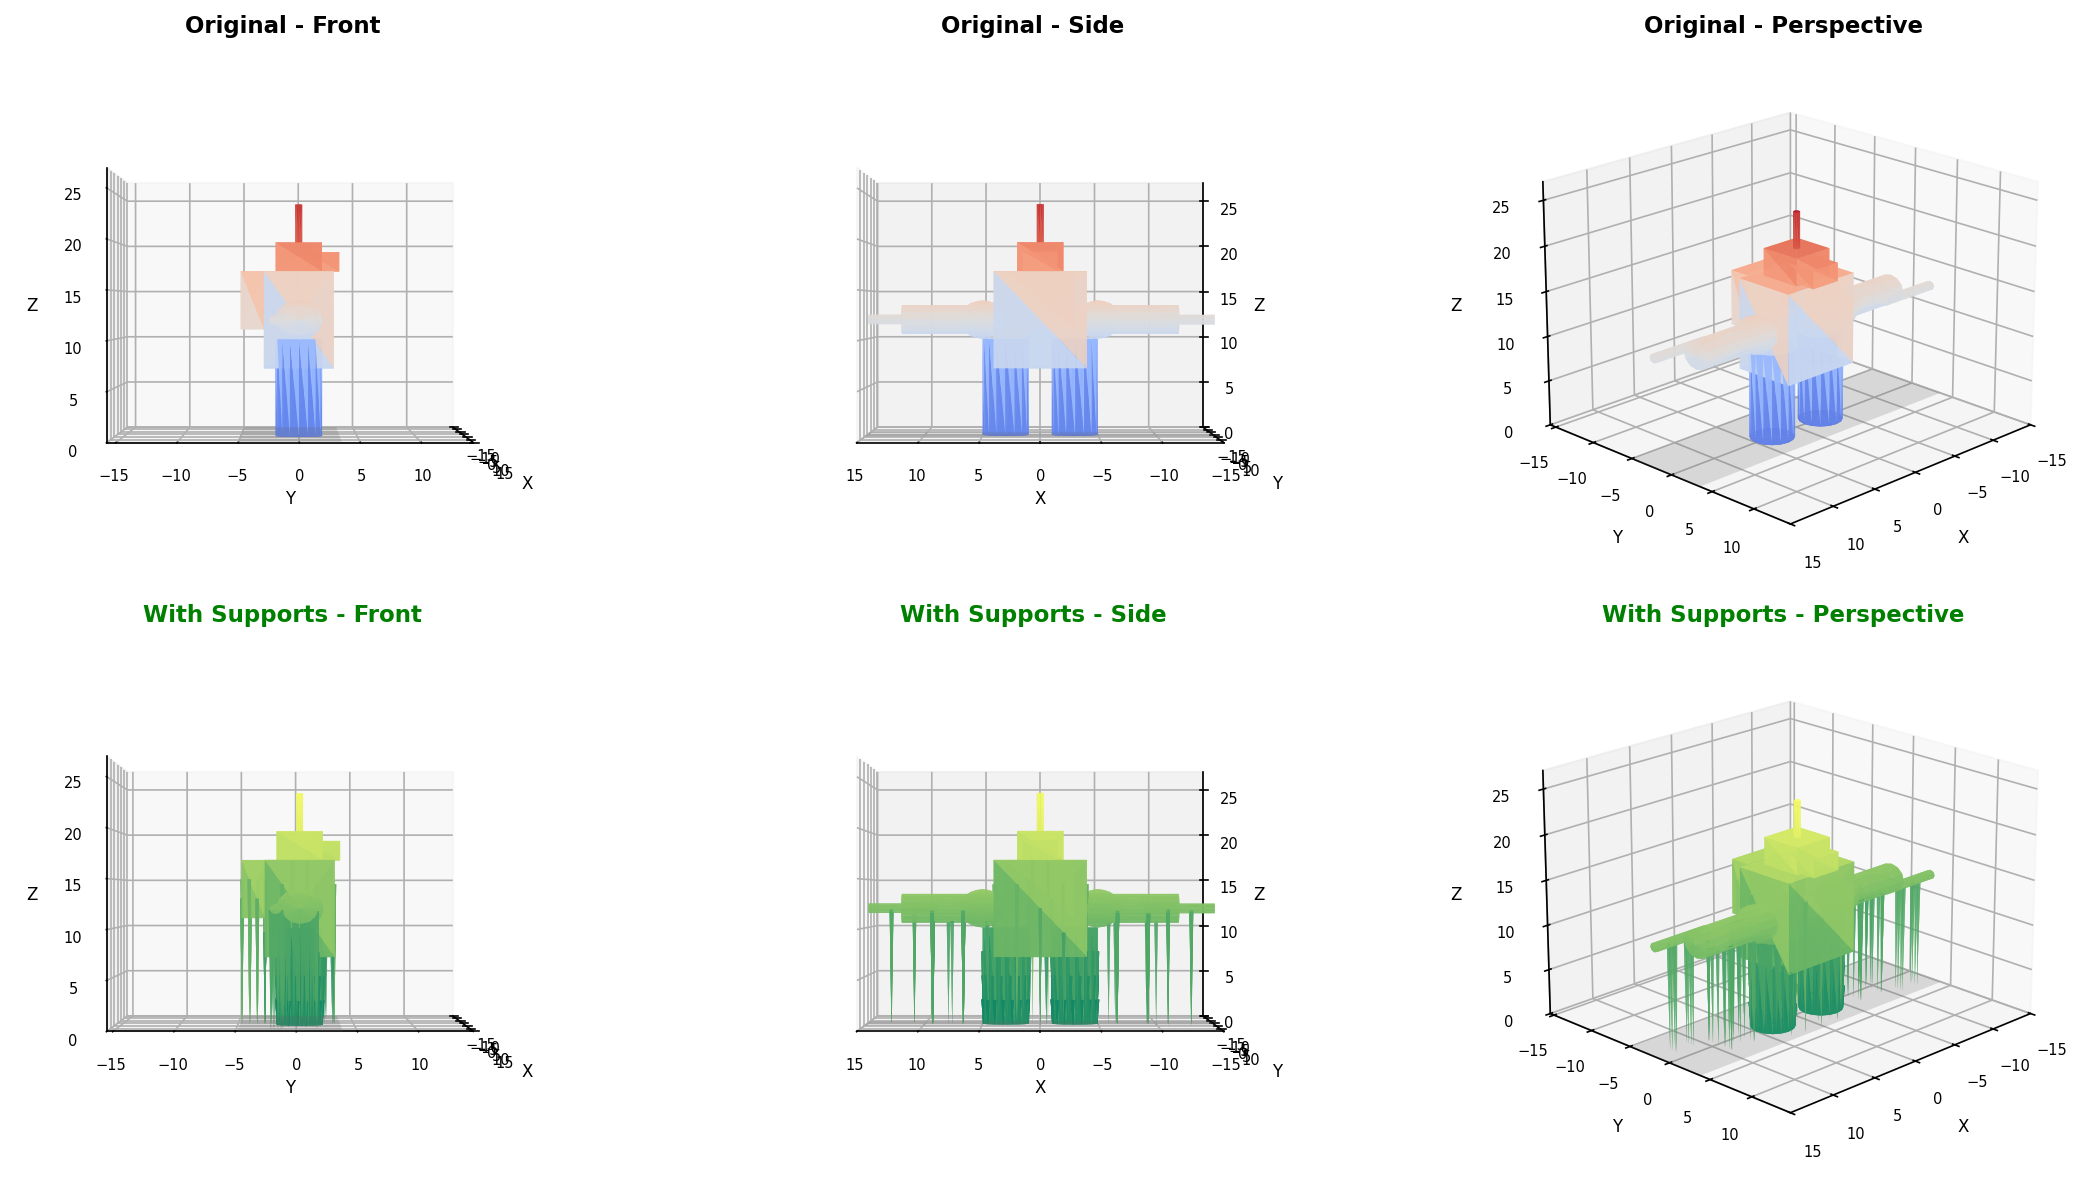
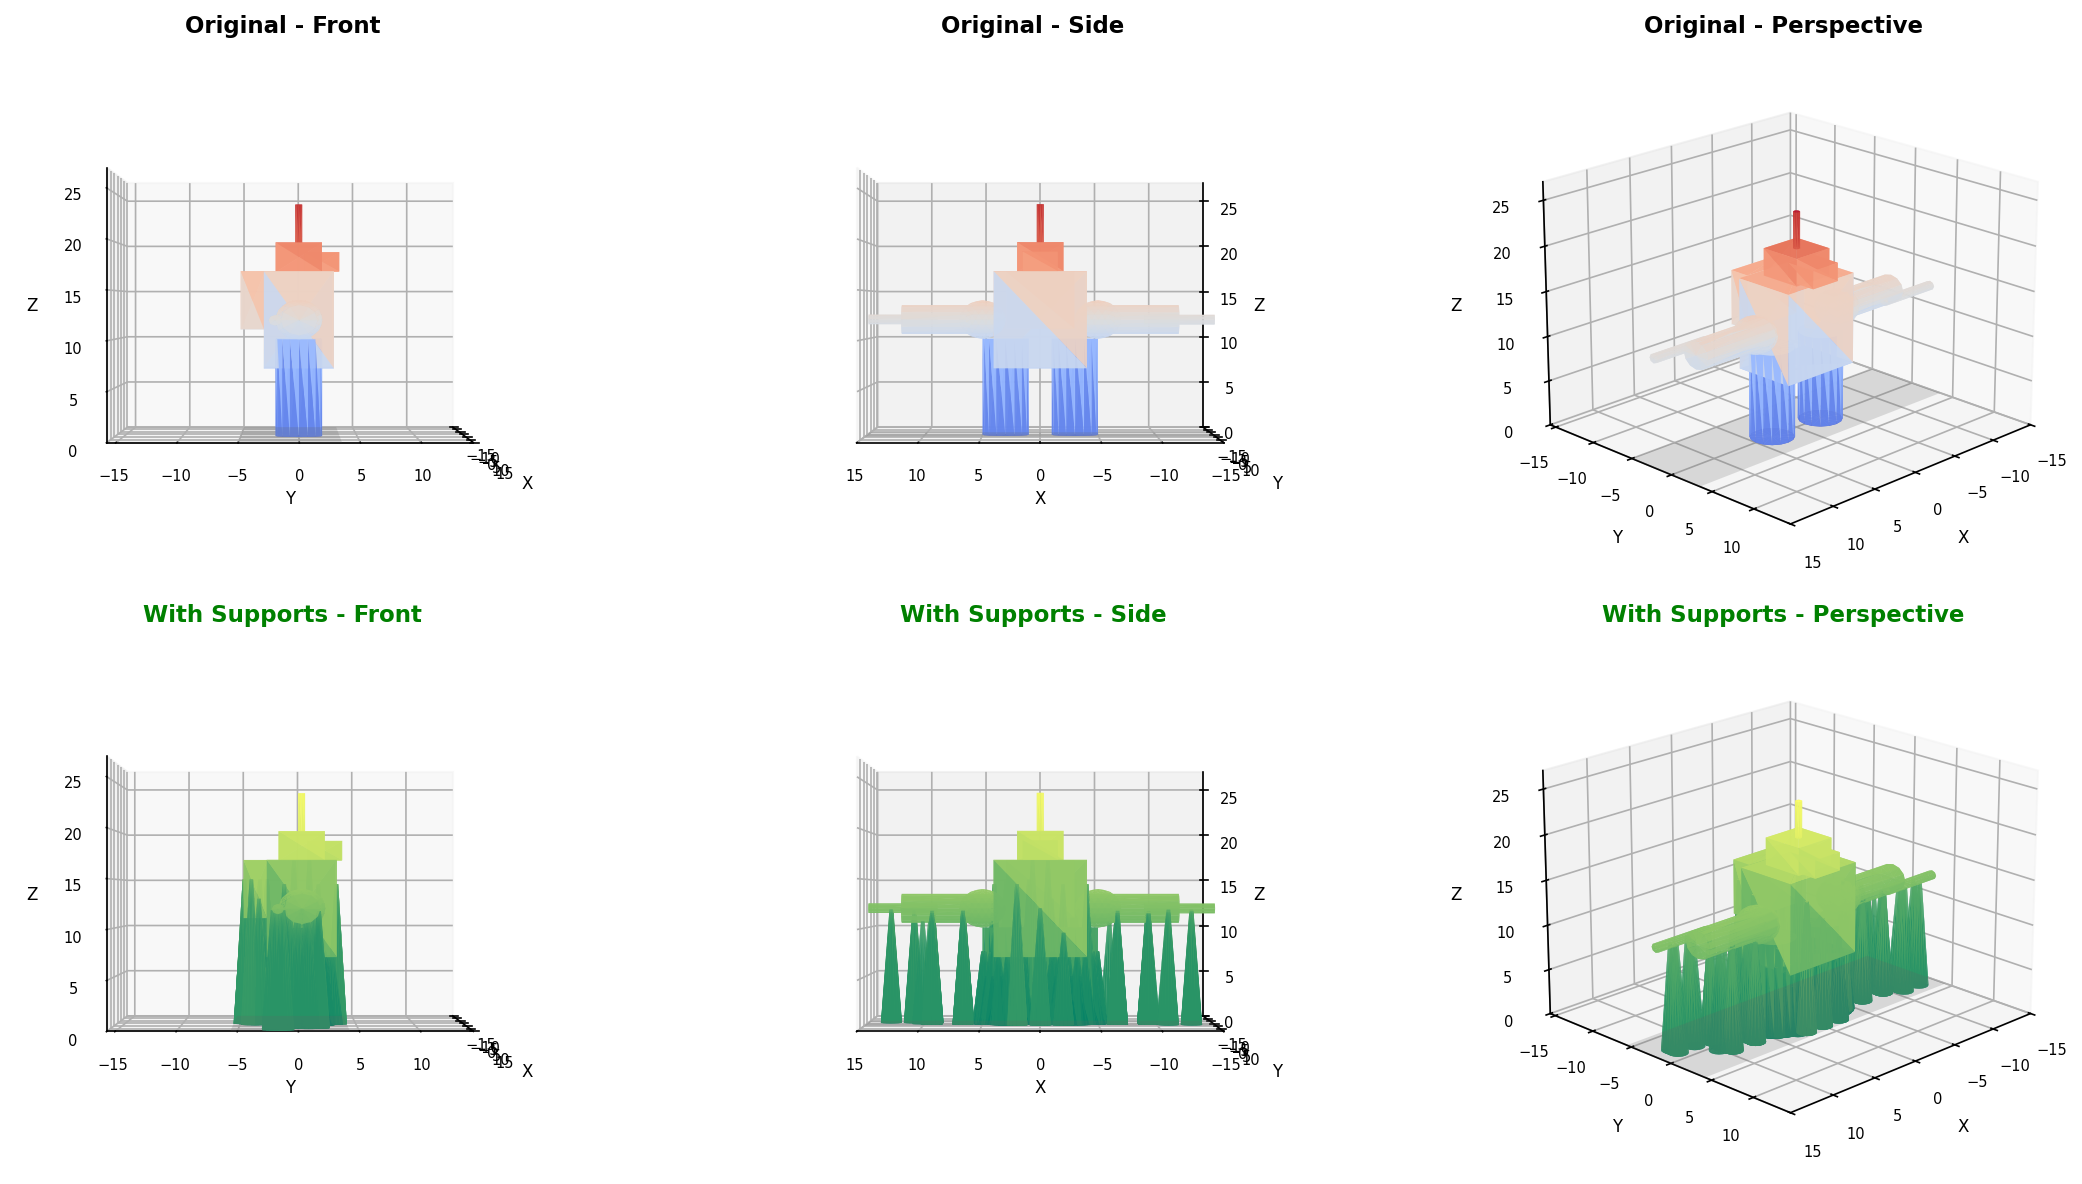
Fix critical bug: supports were inverted (small base, large tip)
CRITICAL FIX: Support cones were generated backwards with small points
at the build plate and large contact areas at the model. This would cause
print failures due to unstable supports.

Root cause: trimesh.creation.cone() creates a cone with a point (radius 0)
at origin. When we tried to scale this point, it remained at 0 because you
can't scale a point that's already at radius 0.

Solution: Use trimesh.creation.cylinder() instead and manually taper the
vertices. This ensures we start with a full-radius base that can be properly
scaled down to create the small tip.

Results:
- Build plate base: 0.85mm radius (was 0mm) - stable foundation
- Model tip: 0.14mm radius (was larger) - minimal scarring
- Support volume: 2,284mm³ (was 53mm³) - correct amount for stability

Visual verification shows proper cone orientation with thick bases at
build plate tapering to small tips at model contact points.

This fix is essential for functional print supports.

Changed region(s): [[0.7805, 0.75, 0.9366, 0.9062], [0.4059, 0.7812, 0.5932, 0.875], [0.0624, 0.6562, 0.1873, 0.875]]

diff --git a/test_support_geometry.py b/test_support_geometry.py
@@ -1,0 +1,98 @@
+#!/usr/bin/env python3
+"""
+Test and verify support cone geometry
+"""
+
+import numpy as np
+import trimesh
+
+# Recreate a single support to verify geometry
+def create_test_support():
+    """Create a single support cone and verify its geometry"""
+
+    # Parameters
+    tip_radius = 0.15  # 0.3mm / 2
+    base_radius = 0.9  # 1.8mm / 2
+    height = 10.0  # 10mm tall support
+
+    print("Creating test support:")
+    print(f"  Tip radius (top/model): {tip_radius}mm")
+    print(f"  Base radius (bottom/build plate): {base_radius}mm")
+    print(f"  Height: {height}mm")
+
+    # Create cylinder and taper it to create proper cone
+    cylinder = trimesh.creation.cylinder(
+        radius=base_radius,
+        height=height,
+        sections=16
+    )
+
+    print(f"\nAfter creation (cylinder):")
+    print(f"  Z range: {cylinder.vertices[:, 2].min():.3f} to {cylinder.vertices[:, 2].max():.3f}")
+
+    # Modify vertices to taper from base to tip
+    vertices = cylinder.vertices.copy()
+    z_vals = vertices[:, 2]
+    z_min, z_max = z_vals.min(), z_vals.max()
+
+    print(f"\nBefore tapering:")
+    print(f"  z_min: {z_min:.3f}, z_max: {z_max:.3f}")
+
+    for i, vertex in enumerate(vertices):
+        z_pos = vertex[2]
+        # t=0 at bottom, t=1 at top
+        t = (z_pos - z_min) / (z_max - z_min) if z_max > z_min else 0
+
+        # Interpolate from base (large) to tip (small)
+        target_radius = base_radius * (1 - t) + tip_radius * t
+
+        current_radius = np.sqrt(vertex[0]**2 + vertex[1]**2)
+        if current_radius > 0.001:
+            scale = target_radius / current_radius
+            vertices[i, 0] *= scale
+            vertices[i, 1] *= scale
+
+    cylinder.vertices = vertices
+
+    # Check radii at top and bottom
+    bottom_verts = vertices[np.abs(vertices[:, 2] - z_min) < 0.01]
+    top_verts = vertices[np.abs(vertices[:, 2] - z_max) < 0.01]
+
+    bottom_radii = np.sqrt(bottom_verts[:, 0]**2 + bottom_verts[:, 1]**2)
+    top_radii = np.sqrt(top_verts[:, 0]**2 + top_verts[:, 1]**2)
+
+    print(f"\nAfter tapering:")
+    print(f"  Bottom (z={z_min:.3f}): radius = {bottom_radii.mean():.3f}mm (should be {base_radius}mm)")
+    print(f"  Top (z={z_max:.3f}): radius = {top_radii.mean():.3f}mm (should be {tip_radius}mm)")
+
+    # Translate to final position (build plate at 0, model at 10)
+    z_base = 0.0
+    translation = [0, 0, z_base + height/2]
+    cylinder.apply_translation(translation)
+    cone = cylinder
+
+    print(f"\nAfter positioning:")
+    print(f"  Z range: {cone.vertices[:, 2].min():.3f} to {cone.vertices[:, 2].max():.3f}")
+
+    # Final check
+    final_bottom = cone.vertices[cone.vertices[:, 2] < 0.1]
+    final_top = cone.vertices[cone.vertices[:, 2] > height - 0.1]
+
+    final_bottom_radii = np.sqrt(final_bottom[:, 0]**2 + final_bottom[:, 1]**2)
+    final_top_radii = np.sqrt(final_top[:, 0]**2 + final_top[:, 1]**2)
+
+    print(f"\nFinal verification:")
+    print(f"  At build plate (z≈0): radius = {final_bottom_radii.mean():.3f}mm")
+    print(f"  At model (z≈{height}): radius = {final_top_radii.mean():.3f}mm")
+
+    if final_bottom_radii.mean() > final_top_radii.mean():
+        print("\n✓ CORRECT: Large base at build plate, small tip at model")
+    else:
+        print("\n✗ ERROR: Inverted cone - small base at build plate, large tip at model!")
+
+    return cone
+
+if __name__ == '__main__':
+    cone = create_test_support()
+    cone.export('test_models/single_support.stl')
+    print("\nSaved to test_models/single_support.stl")

diff --git a/support_structures.py b/support_structures.py
@@ -110,50 +110,40 @@ class SupportGenerator:
 
         Args:
             x, y: Center position
-            z_base: Base Z height
+            z_base: Base Z height (build plate)
             height: Support height
-            tip_radius: Radius at tip (top)
-            base_radius: Radius at base (bottom)
+            tip_radius: Radius at tip (top, contacts model)
+            base_radius: Radius at base (bottom, on build plate)
 
         Returns:
             Trimesh object
         """
-        # Create cone
-        # Trimesh creates cone with point at origin, opening upward
-        # We need to flip and position it
-
         segments = 16  # Number of sides
 
-        # Create cone with tip at top, base at bottom
-        cone = trimesh.creation.cone(
+        # Create a cylinder and taper it to create proper cone
+        # Start with cylinder at base_radius (largest radius)
+        cylinder = trimesh.creation.cylinder(
             radius=base_radius,
             height=height,
             sections=segments
         )
 
-        # The cone is created with tip at (0,0,0) pointing up
-        # We need tip at top, base at bottom
-        # First flip it
-        flip_transform = trimesh.transformations.rotation_matrix(
-            np.pi, [1, 0, 0]
-        )
-        cone.apply_transform(flip_transform)
-
-        # Now scale the tip to be smaller
-        # We need a non-uniform scaling along the height
-        # Create a custom cone by modifying vertices
-        vertices = cone.vertices.copy()
-
-        # Find top and bottom vertices
+        # Cylinder is created centered at origin with height along Z
+        # Modify vertices to create taper from base to tip
+        vertices = cylinder.vertices.copy()
         z_vals = vertices[:, 2]
         z_min, z_max = z_vals.min(), z_vals.max()
 
         # Scale radially based on Z position
+        # Bottom (z_min) should be base_radius (large)
+        # Top (z_max) should be tip_radius (small)
         for i, vertex in enumerate(vertices):
             z_pos = vertex[2]
-            # Interpolate radius from tip to base
-            t = (z_pos - z_min) / (z_max - z_min)  # 0 at bottom, 1 at top
-            target_radius = base_radius + t * (tip_radius - base_radius)
+            # Interpolate: t=0 at bottom, t=1 at top
+            t = (z_pos - z_min) / (z_max - z_min) if z_max > z_min else 0
+
+            # Interpolate radius from base (large) to tip (small)
+            target_radius = base_radius * (1 - t) + tip_radius * t
 
             # Current radius
             current_radius = np.sqrt(vertex[0]**2 + vertex[1]**2)
@@ -163,14 +153,15 @@ class SupportGenerator:
                 vertices[i, 0] *= scale
                 vertices[i, 1] *= scale
 
-        cone.vertices = vertices
+        cylinder.vertices = vertices
 
         # Position the support
-        # Move so tip is at (x, y, z_base + height)
-        translation = [x, y, z_base + height - z_max]
-        cone.apply_translation(translation)
+        # Bottom should be at z_base, top at z_base + height
+        # Cylinder is centered at 0, so shift it up
+        translation = [x, y, z_base + height/2]
+        cylinder.apply_translation(translation)
 
-        return cone
+        return cylinder
 
     def _create_tree_support(self, x, y, z_top, z_bottom):
         """
